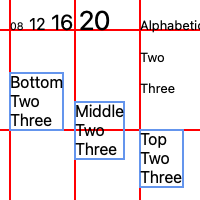
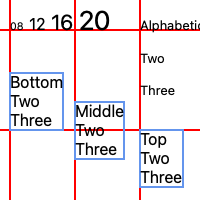
fix: better backend font size calculations
* get actual font size

* add better change message

* update multiline_text testbed references

Changed region(s): [[0.69, 0.39, 0.87, 0.48], [0.69, 0.24, 0.84, 0.33]]

diff --git a/gtk/src/toga_gtk/widgets/canvas.py b/gtk/src/toga_gtk/widgets/canvas.py
@@ -264,9 +264,9 @@ class Canvas(Widget):
         return pango_context
 
     def _font_metrics(self, pango_context, line_height):
-        pango_metrics = pango_context.load_font(
-            pango_context.get_font_description()
-        ).get_metrics()
+        pango_font = pango_context.load_font(pango_context.get_font_description())
+        font_size = pango_font.describe_with_absolute_size().get_size() / Pango.SCALE
+        pango_metrics = pango_font.get_metrics()
         ascent = pango_metrics.get_ascent() / Pango.SCALE
         descent = pango_metrics.get_descent() / Pango.SCALE
 
@@ -274,7 +274,7 @@ class Canvas(Widget):
             # get_height was added in Pango 1.44, but Debian Buster comes with 1.42.
             scaled_line_height = ascent + descent
         else:
-            scaled_line_height = ascent * line_height
+            scaled_line_height = font_size * line_height
 
         return FontMetrics(ascent, descent, scaled_line_height)
 

diff --git a/examples/canvas/canvas/app.py b/examples/canvas/canvas/app.py
@@ -83,7 +83,7 @@ class ExampleCanvasApp(toga.App):
             min=1, max=10, value=1, on_change=self.refresh_canvas
         )
         self.line_height_slider = toga.Slider(
-            min=1.0, max=10.0, value=1.0, on_change=self.refresh_canvas
+            min=1.0, max=10.0, value=1.2, on_change=self.refresh_canvas
         )
         self.dash_pattern_selection = toga.Selection(
             items=list(self.dash_patterns.keys()), on_change=self.refresh_canvas

diff --git a/cocoa/src/toga_cocoa/widgets/canvas.py b/cocoa/src/toga_cocoa/widgets/canvas.py
@@ -274,7 +274,7 @@ class Canvas(Widget):
             # descender is a negative number.
             return ceil(font.native.ascender - font.native.descender)
         else:
-            return font.native.ascender * line_height
+            return font.native.pointSize * line_height
 
     def measure_text(self, text, font, line_height):
         # We need at least a fill color to render, but that won't change the size.

diff --git a/iOS/src/toga_iOS/widgets/canvas.py b/iOS/src/toga_iOS/widgets/canvas.py
@@ -258,7 +258,7 @@ class Canvas(Widget):
             # descender is a negative number.
             return ceil(font.native.ascender - font.native.descender)
         else:
-            return font.native.ascender * line_height
+            return font.native.pointSize * line_height
 
     def measure_text(self, text, font, line_height):
         # We need at least a fill color to render, but that won't change the size.

diff --git a/winforms/src/toga_winforms/widgets/canvas.py b/winforms/src/toga_winforms/widgets/canvas.py
@@ -304,7 +304,8 @@ class Canvas(Box):
         if line_height is None:
             return font.metric("LineSpacing")
         else:
-            return font.metric("EmHeight") * line_height
+            # Get size in CSS pixels
+            return (font.native.SizeInPoints * 96 / 72) * line_height
 
     def write_text(
         self, text, x, y, font, baseline, line_height, draw_context, **kwargs

diff --git a/changes/2144.feature.rst b/changes/2144.feature.rst
@@ -1,1 +1,1 @@
-A line_height argument can now be used to change the line height of multiline text.
+The line height of multiline text on a Canvas can be configured.
